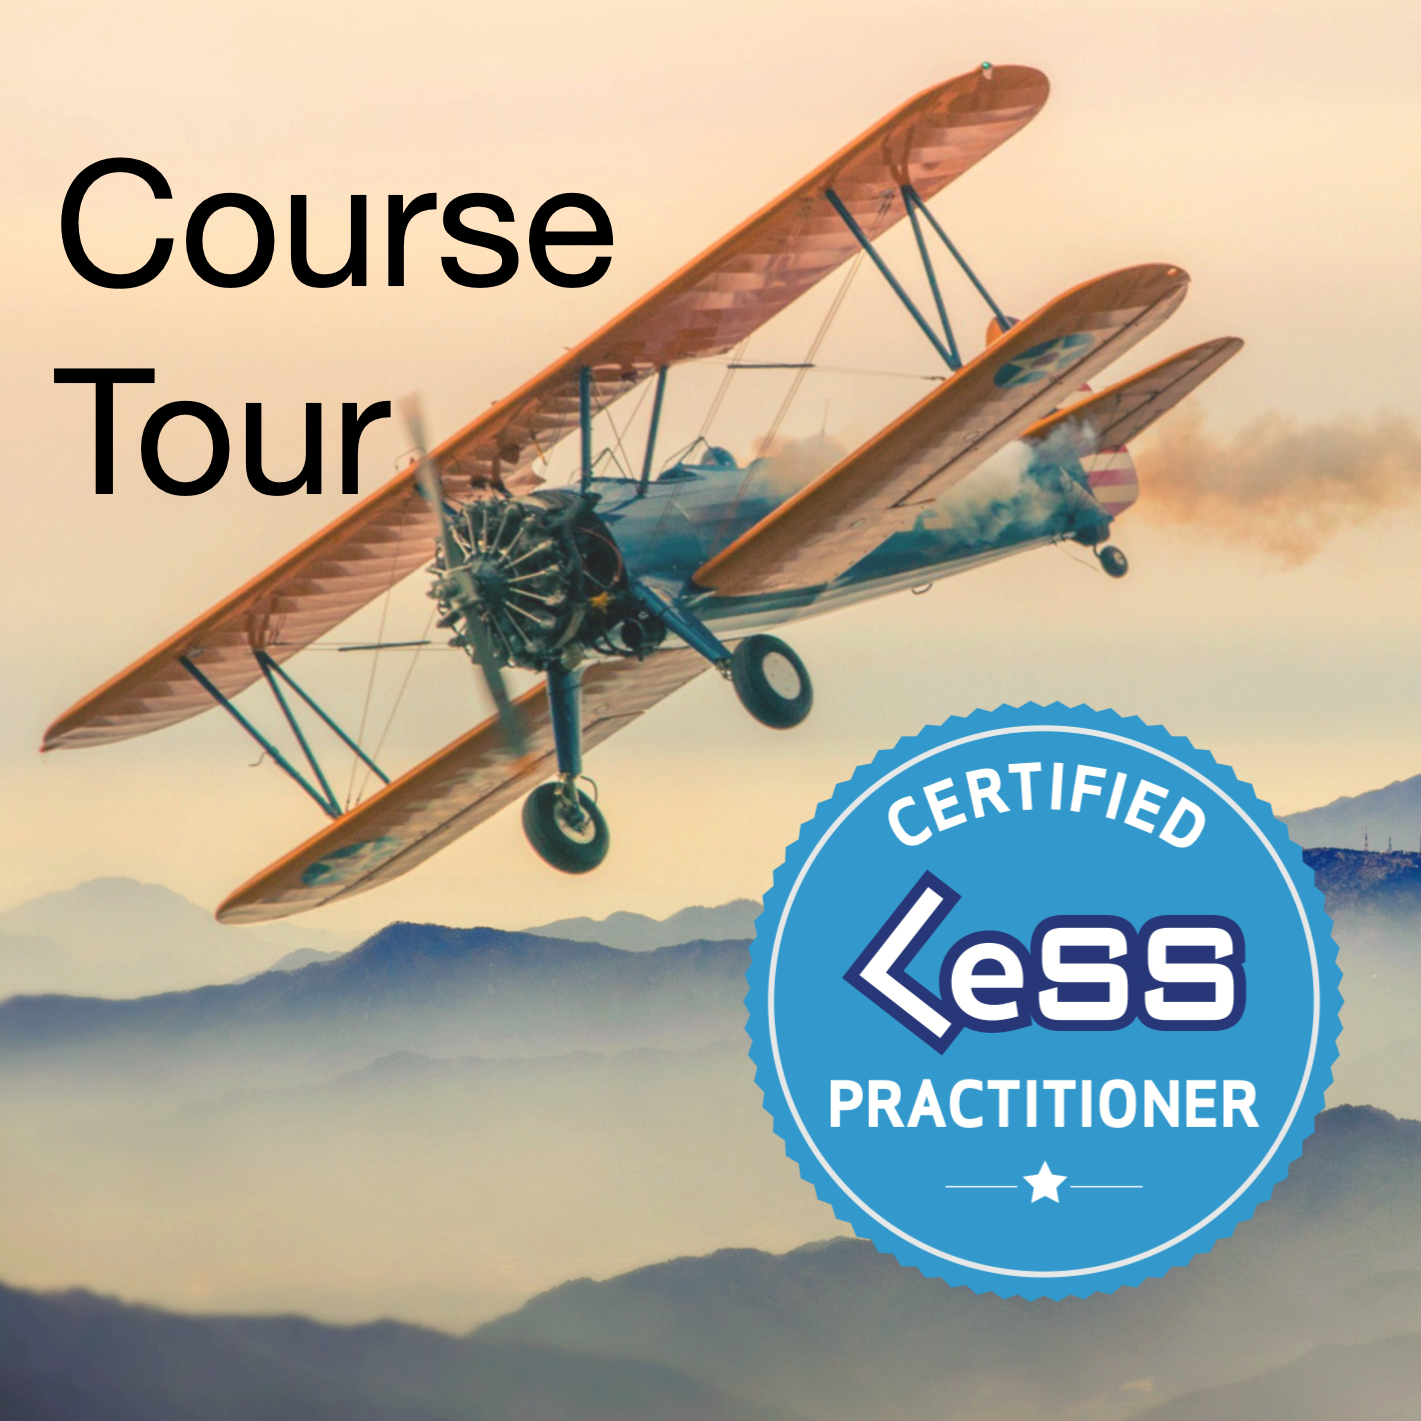
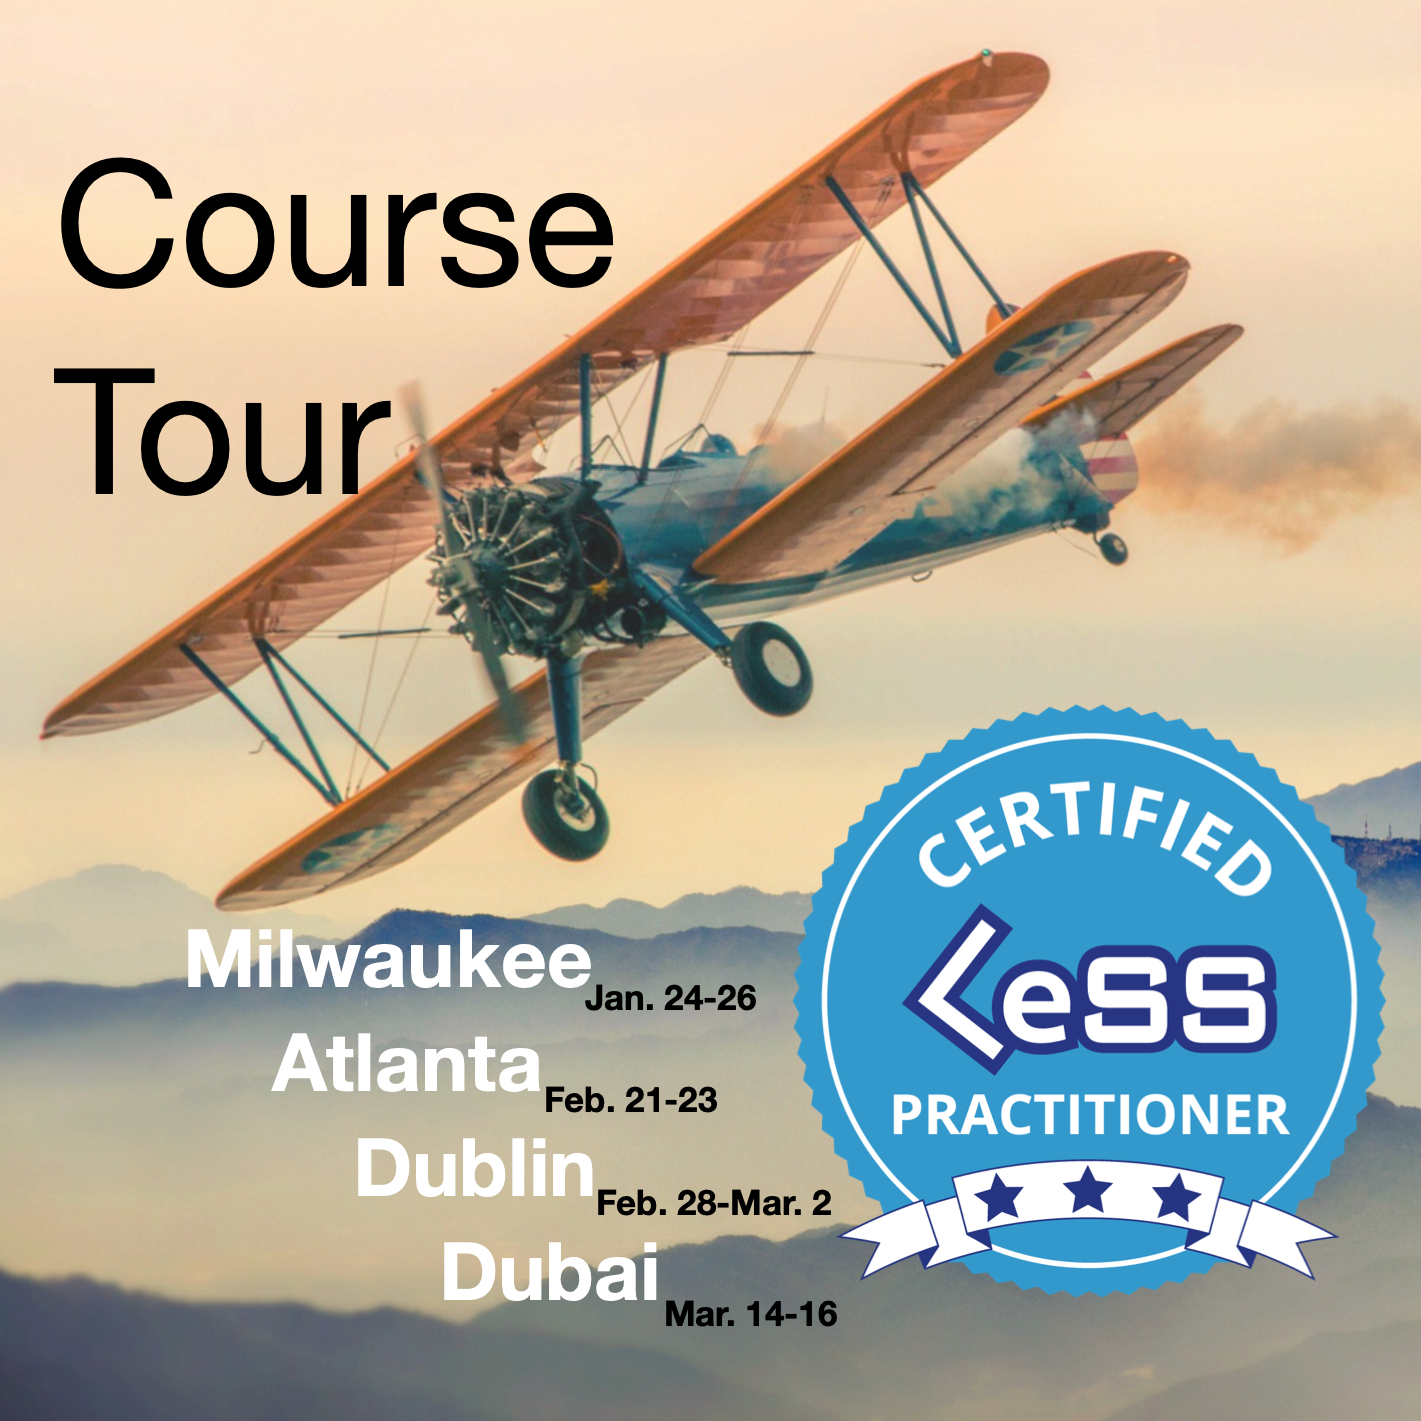
added Dublin and Dubai to the course tour and removed Orange County, Washington, and Miami

diff --git a/clp/index.md b/clp/index.md
@@ -25,16 +25,13 @@ By default, with any course which fails to reach critical mass, your card on fil
 
 You will typically be given an option to attend a later course as long as capacity allows. For example, if you pre-register for Washington DC and the Washington DC course fails to reach critical mass, you can choose to transfer your pre-registration to Florida where you can enjoy a little warm weather.
 
-* [Milwaukee: January 24-26, 2022: Locked-In]({{site.url}}{{site.baseurl}}/mke_clp/)
+* [Milwaukee, WI, USA: January 24-26, 2022: Locked-In]({{site.url}}{{site.baseurl}}/mke_clp/)
 
-* [Orange County: February 7-9, 2023]({{site.url}}{{site.baseurl}}/clp/orange_county/)
+* [Atlanta, GA, USA: February 21-23, 2023]({{site.url}}{{site.baseurl}}/clp/atlanta/)
 
-* [Washington DC: February 15-17, 2023]({{site.url}}{{site.baseurl}}/clp/washington_dc/)
+* [Dublin, Ireland: February 28-March 2, 2023]({{site.url}}{{site.baseurl}}/clp/dublin/)
 
-* [Atlanta: February 21-23, 2023]({{site.url}}{{site.baseurl}}/clp/atlanta/)
-
-* [Miami/Ft. Lauderdale: February 28 - March 2, 2023]({{site.url}}{{site.baseurl}}/clp/miami/)
-
+* [Dubai, United Arab Emirates: March 14-16, 2023]({{site.url}}{{site.baseurl}}/clp/dubai/)
 
 # LeSS.Works Summary
 

diff --git a/clp/dublin.md b/clp/dublin.md
@@ -1,0 +1,24 @@
+---
+title: Dublin Certified LeSS Practitioner Course
+image: /assets/images/clp/DublinCLPWebsitePageHeaderFeb28toMar2.png
+author: James
+layout: book
+---
+
+<a class="wx-button" href="https://agilecarpentry.ticketspice.com/dublin-certified-less-practitioner-2023-q1" style="background:rgba(36,36,36,1);color:white;padding:10px 20px;text-decoration:none;font-weight:bold;" target="_blank">Feb 28 - Mar 2: Get Tickets</a>
+
+{% include_relative _includes/course_agenda.md %}
+
+
+# Training Venue Details
+
+TBD
+
+{% include_relative _includes/course_tour_poster.md %}
+
+# Tickets
+
+<a class="wx-button" href="https://agilecarpentry.ticketspice.com/dublin-certified-less-practitioner-2023-q1" style="background:rgba(36,36,36,1);color:white;padding:10px 20px;text-decoration:none;font-weight:bold;" target="_blank">Feb 28 - Mar 2: Get Tickets</a>
+
+
+

diff --git a/clp/dubai.md b/clp/dubai.md
@@ -1,0 +1,24 @@
+---
+title: Dubai Certified LeSS Practitioner Course
+image: /assets/images/clp/DubaiCLPWebsitePageHeaderMar14toMar16.png
+author: James
+layout: book
+---
+
+<a class="wx-button" href="https://agilecarpentry.ticketspice.com/dubai-certified-less-practitioner-2023-q1" style="background:rgba(36,36,36,1);color:white;padding:10px 20px;text-decoration:none;font-weight:bold;" target="_blank">Mar. 14 - 16: Get Tickets</a>
+
+{% include_relative _includes/course_agenda.md %}
+
+
+# Training Venue Details
+
+TBD
+
+{% include_relative _includes/course_tour_poster.md %}
+
+# Tickets
+
+<a class="wx-button" href="https://agilecarpentry.ticketspice.com/dubai-certified-less-practitioner-2023-q1" style="background:rgba(36,36,36,1);color:white;padding:10px 20px;text-decoration:none;font-weight:bold;" target="_blank">Mar. 14 - 16: Get Tickets</a>
+
+
+
